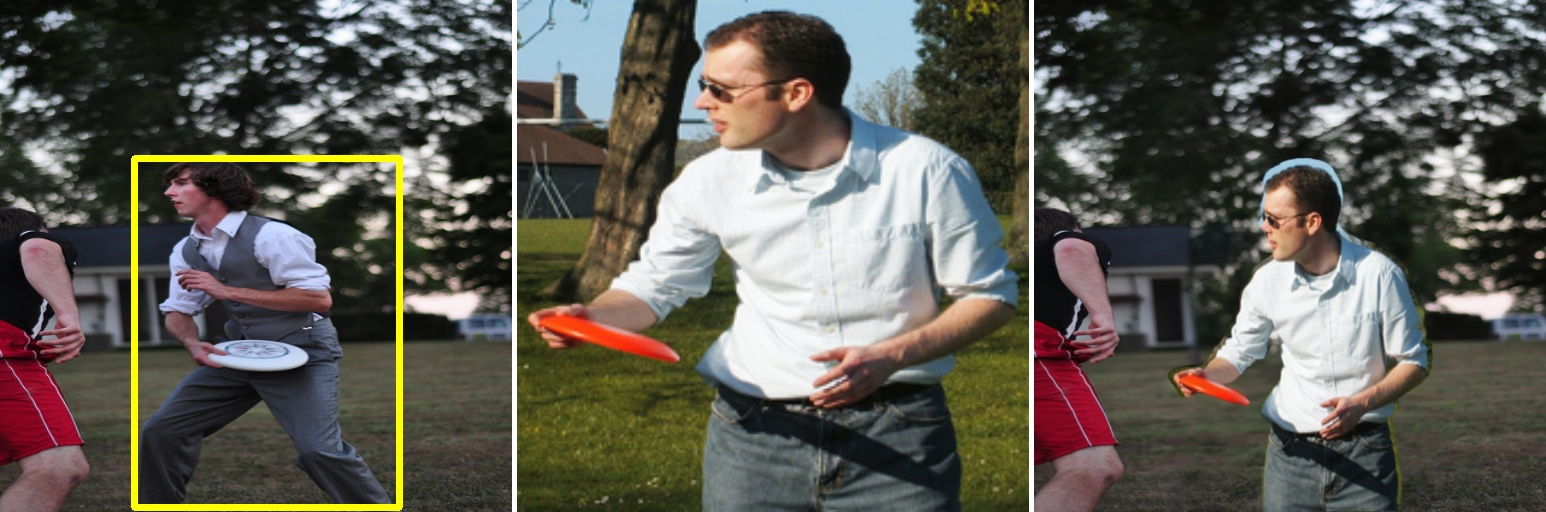
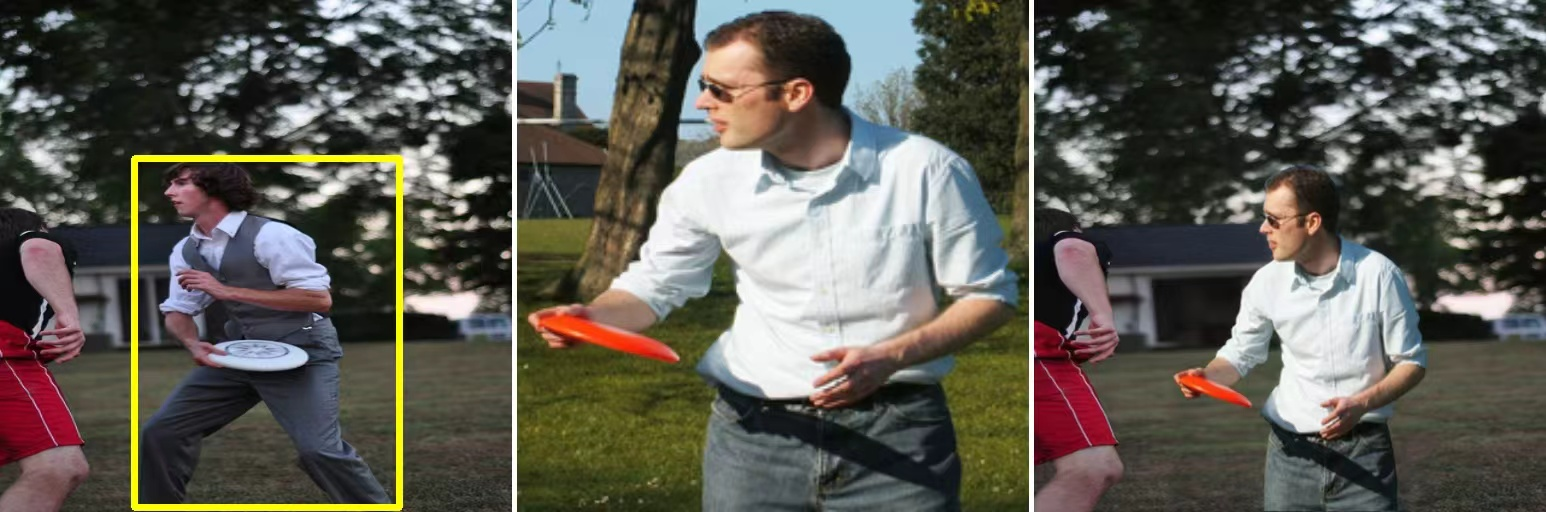
Update docs

diff --git a/libcom/image_harmonization/image_harmonization.py b/libcom/image_harmonization/image_harmonization.py
@@ -27,17 +27,6 @@ class ImageHarmonizationModel:
         >>> import os
         >>> import numpy as np
         >>> from PIL import Image
-
-        >>> #Use CDTNet
-        >>> CDTNet = ImageHarmonizationModel(device=0, model_type='CDTNet')
-        >>> comp_img1  = '../tests/source/composite/comp1_CDTNet.jpg'
-        >>> comp_mask1 = '../tests/source/composite_mask/mask1_CDTNet.png'
-        >>> CDT_result1 = CDTNet(comp_img1, comp_mask1)
-        >>> cv2.imwrite('../docs/_static/image/image_harmonization_CDT_result1.jpg', np.concatenate([cv2.imread(comp_img1), cv2.imread(comp_mask1), CDT_result1],axis=1))
-        >>> comp_img2  = '../tests/source/composite/comp2_CDTNet.jpg'
-        >>> comp_mask2 = '../tests/source/composite_mask/mask2_CDTNet.png'
-        >>> CDT_result2 = CDTNet(comp_img2, comp_mask2)
-        >>> cv2.imwrite('../docs/_static/image/image_harmonization_CDT_result2.jpg', np.concatenate([cv2.imread(comp_img2), cv2.imread(comp_mask2), CDT_result2],axis=1))
         >>> #Use PCTNet
         >>> PCTNet = ImageHarmonizationModel(device=0, model_type='PCTNet')
         >>> comp_img1  = '../tests/source/composite/comp1_PCTNet.jpg'
@@ -51,8 +40,6 @@ class ImageHarmonizationModel:
 
     Expected result:
 
-    .. image:: _static/image/image_harmonization_CDT_result1.jpg
-    .. image:: _static/image/image_harmonization_CDT_result2.jpg
     .. image:: _static/image/image_harmonization_PCT_result1.jpg
     .. image:: _static/image/image_harmonization_PCT_result2.jpg
 

diff --git a/docs/image_harmonization.md b/docs/image_harmonization.md
@@ -1,19 +1,6 @@
 # Image Harmonization
 
-Image harmonization is to harmonize a composite image by adjusting its foreground illumination to be consistent with the background. We provide two methods: CDTNet and PCTNet. Both methods are color-to-color transformation methods, that is, learning a color mapping to transform the composite foreground. Color-to-color transformation methods are efficient and applicable to an image with arbitrary resolution. CDTNet learns global color mapping while PCTNet learns local color mapping. The difference between "global" and "local" lies in whether applying different color mappings to different local regions. 
-
-**CDTNet(sim)**:
-
-> **High-Resolution Image Harmonization via Collaborative Dual Transformations**  [[pdf]](https://openaccess.thecvf.com/content/CVPR2022/papers/Cong_High-Resolution_Image_Harmonization_via_Collaborative_Dual_Transformations_CVPR_2022_paper.pdf)  [[code]](https://github.com/bcmi/CDTNet-High-Resolution-Image-Harmonization)<br>
->
-> Wenyan Cong, Xinhao Tao, Li Niu, Jing Liang, Xuesong Gao, Qihao Sun, Liqing Zhang<br>
-> Accepted by **CVPR2022**.
-
-## Brief Method Summary
-
-![image_harmonization_CDTNet1](../resources/image_harmonization_CDTNet1.jpg)
-
-The original CDTNet combines pixel-to-pixel transformation and RGB-to-RGB transformation coherently in an end-to-end framework. Here, we only use the CDTNet(sim) model, which realizes pixel-to-pixel transformation. CDTNet(sim) employs an encoder, which takes in a downsampled image and outputs the image-specific coefficients to combine basis look-up tables (LUTs). The combined LUT is applied to the foreground region of full-resolution composite image. 
+Image harmonization aims to adjust the foreground illumination of a composite image so that it is consistent with the background. We propose a method called PCTNet, which is a color-to-color transformation approach that learns a color mapping to transform the composite foreground. This type of method is efficient and applicable to images of arbitrary resolution. Unlike traditional global color mapping, PCTNet learns local color mapping, meaning it adaptively applies different color transformations to different local regions, resulting in more detailed and natural harmonization effects.
 
 **PCTNet**:
 

diff --git a/docs/api.rst b/docs/api.rst
@@ -3,12 +3,6 @@ libcom.color_transfer
 .. automodule:: libcom.color_transfer
     :members:
 
-libcom.controllable_composition
---------------------------------
-.. automodule:: libcom.controllable_composition
-    :members:
-    :special-members: __call__
-
 libcom.fos_score
 -------------------
 .. automodule:: libcom.fos_score

diff --git a/docs/index.rst b/docs/index.rst
@@ -19,7 +19,6 @@ Welcome to Libcom's documentation!
    :caption: Method Summary
 
    color_transfer.md
-   controllable_composition.md
    harmony_score.md
    get_composite_image.md
    opa_score.md
